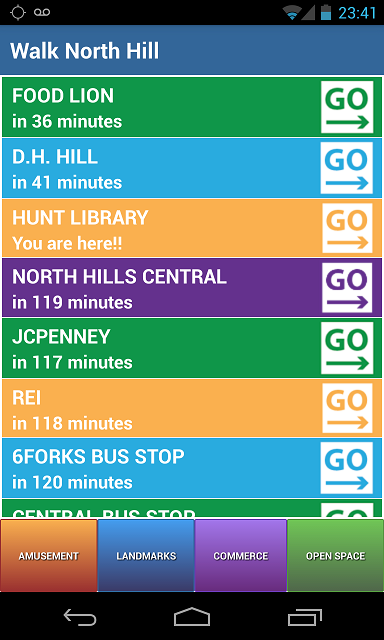
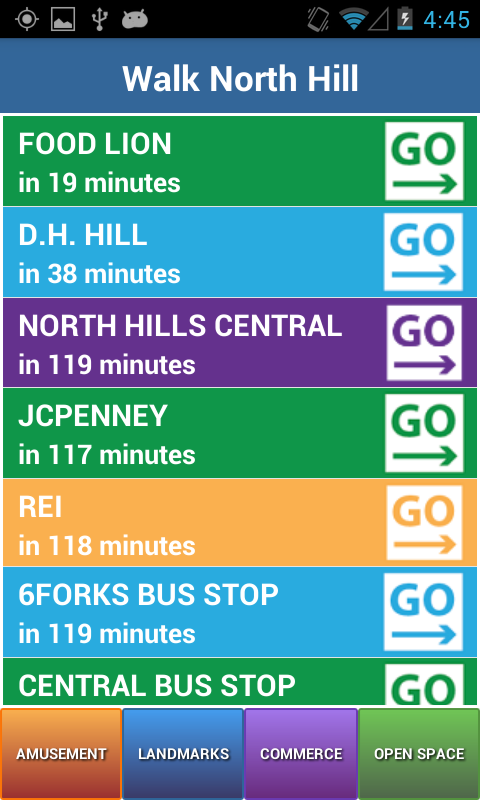
Header aligned center (horizontal | vertical)
1. Aligned header to center.
2. Added screen shot of application for displaying on home screen
3. Updated readme file

diff --git a/README.md b/README.md
@@ -1,3 +1,6 @@
 Spring13-WalkRaleigh-Android
 ============================
-![Alt text](/screenshot/home.png "Home Screen")
+Home Screen ![Alt text](/screenshot/home.png "Home Screen")
+
+Category Selected
+![Alt text](/screenshot/btnpressed.png "Category Selected")
